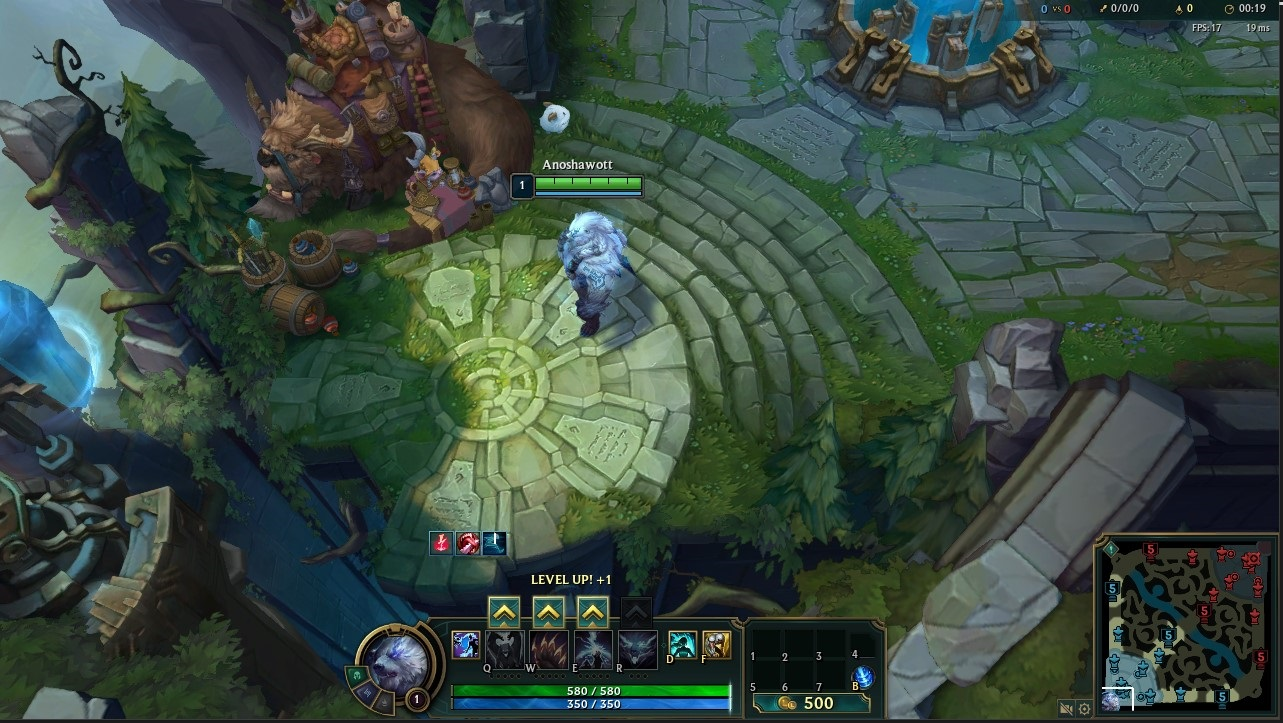
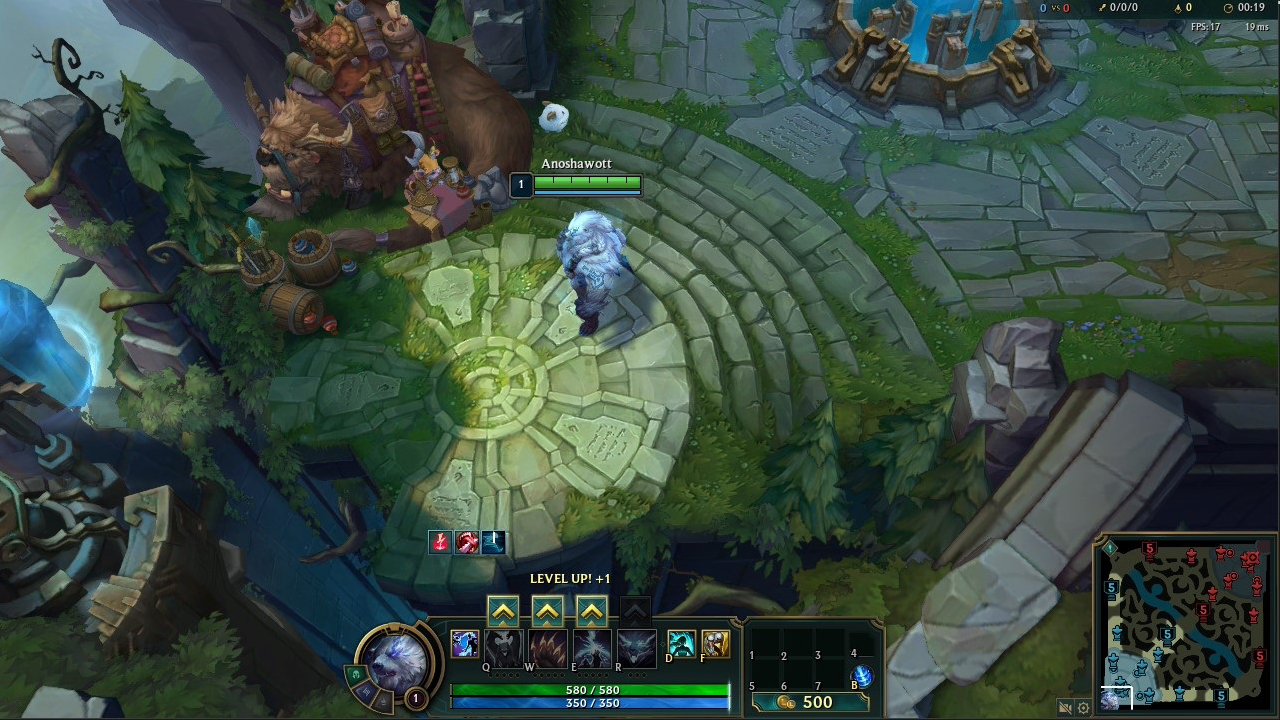
Digit Recognition 3.0

diff --git a/digit_detection_test.py b/digit_detection_test.py
@@ -1,7 +1,6 @@
 import numpy as np
 import cv2
-import mss
-import mss.tools
+from window_cap import WindowCapture
 import time
 
 ##### SUCCESS!!!!!!!
@@ -13,34 +12,19 @@ class DigitDetect:
 
 
     # screenshot() returns an image of some given area
-    def screenshot(self, x, y, width, height
-                , reduction_factor = 1
-                , gray = True
-                ):
-        with mss.mss() as sct:
-            # The screen part to capture
-            region = {'left': x, 'top': y, 'width': width, 'height': height}
-            
-            # Grab the data
-            img = sct.grab(region)
-            
-            if gray:
-                result = cv2.cvtColor(np.array(img), cv2.COLOR_BGRA2GRAY)
-            else:
-                result = cv2.cvtColor(np.array(img), cv2.COLOR_BGRA2BGR)
-
-            img = result[::reduction_factor, ::reduction_factor]
-            return img  
+    def screenshot(self):
+        wincap = WindowCapture('League of Legends (TM) Client')
+        img = wincap.get_screenshot()
+        return img  
 
     # returns digit and position
-    def detect(self, img, copy, region):
+    def detect(self, img, copy, region, x, y, width, height):
         tmp_numbers = {}
-        
-        # Read the input image 
-        im = img
+        # Read and crop the input image 
+        crop_img = img[y:y+height, x:x+width]
 
         # Convert to grayscale and apply Gaussian filtering; was COLOR_BGR2GRAY
-        im_gray = cv2.cvtColor(im, cv2.COLOR_BGR2GRAY)
+        im_gray = cv2.cvtColor(crop_img, cv2.COLOR_BGR2GRAY)
         template = cv2.imread('images/numbers/'+ region +'/' + str(copy) + '.jpg', 0)
         w, h = template.shape[::-1]
         
@@ -64,96 +48,139 @@ class DigitDetect:
                 count += 1
         return tmp_numbers
 
-    def get_data(self, x_coor, y_coor, w, h, where, last = ''):
-        start_1 = time.time()
-        img = self.screenshot(x = x_coor, y = y_coor, width = w, height = h, gray = False)
-        print(time.time()-start_1)
-        numbers = {}
-        for number in range(10):
-            returned_numbers = self.detect(img = img, copy = number, region = where)
-            z = numbers.copy()
-            z.update(returned_numbers)
-            numbers = z
-        num = {k: v for k, v in sorted(numbers.items(), key=lambda item: item[1])}
-        num_str = ''
-        for key in num:
-            num_str = num_str + key
-        remove = ['_', '!', '@', "#"]
-        for i in remove:
-            num_str = num_str.replace(i, '')
-        if where == 'kda':
-            kda = []
-            for i in num_str:
-                if i == '':
-                    return last
-                else:
-                    kda.append(i)
-            return kda
-        if num_str == '':
-            return last
-        else:
-            return num_str
+    def get_data(self, last = ''):
+        img = self.screenshot()
+        input_data = {'coins': [797,691,51,17], 'cs':[1178,0,25,16], 
+                'kda':[1103,0,43,13]}
+        output_data = {}
+        for area in input_data:
+            x_coor = input_data[area][0]
+            y_coor = input_data[area][1]
+            w = input_data[area][2]
+            h = input_data[area][3]
+            numbers = {}
+            for number in range(10):
+                returned_numbers = self.detect(img = img, copy = number, region = area,
+                                            x = x_coor, y = y_coor, width = w, height = h)
+                z = numbers.copy()
+                z.update(returned_numbers)
+                numbers = z
+            num = {k: v for k, v in sorted(numbers.items(), key=lambda item: item[1])}
+            num_str = ''
+            for key in num:
+                num_str = num_str + key
+            remove = ['_', '!', '@', "#"]
+            for i in remove:
+                num_str = num_str.replace(i, '')
+            if area == 'kda' and num_str != '':
+                kda = []
+                for i in num_str:
+                    if i == '':
+                        return last
+                    else:
+                        kda.append(i)
+                output_data[area]=kda
+                continue
+            if num_str == '':
+                output_data[area]=last
+            else:
+                output_data[area]=num_str
+        
+        return output_data
 
 
-# Following attempts to read and interpret on-screen information
+# Following attempts to read and interpret on-screen information 
+#### (Digit Recognition 3.0)
 
-for i in list(range(6))[::-1]:
+for i in list(range(3))[::-1]:
     print(i+1)
     time.sleep(1)
-
-# start = time.time()
-# count = 0
-# while True:
-#     if count == 0:
-#         print('Time elapsed:', time.time()-start)
-#         print('Coins: ', DigitDetect().get_data(1117,868,51,17, where = 'coins'))
-#         print('CP: ', DigitDetect().get_data(1504,173,25,16, where = 'cp'))
-#         print('KDA: ', DigitDetect().get_data(1427,172,43,13, where = 'kda'))
-#         print('-------------')
-#         last_coins = DigitDetect().get_data(1117,868,51,17, where = 'coins')
-#         last_cp = DigitDetect().get_data(1504,173,25,16, where = 'cp')
-#         last_kda = DigitDetect().get_data(1427,172,43,13, where = 'kda')
-
-#         count += 1
-#     else:
-#         print('Time elapsed:', time.time()-start)
-        
-#         print('Coins: ', DigitDetect().get_data(1117,868,51,17, where = 'coins', last = last_coins))
-#         print('CP: ', DigitDetect().get_data(1504,173,25,16, where = 'cp', last = last_cp))
-#         print('KDA: ', DigitDetect().get_data(1427,172,43,13, where = 'kda', last = last_kda))
-#         print('-------------')
-#         last_coins = DigitDetect().get_data(1117,868,51,17, where = 'coins')
-#         last_cp = DigitDetect().get_data(1504,173,25,16, where = 'cp')
-#         last_kda = DigitDetect().get_data(1427,172,43,13, where = 'kda')
-
-
-#     time.sleep(5)
 
 start = time.time()
 count = 0
 while True:
     if count == 0:
         print('Time elapsed:', time.time()-start)
-        coins = DigitDetect().get_data(1117,868,51,17, where = 'coins')
-        cp = DigitDetect().get_data(1504,173,25,16, where = 'cp')
-        kda = DigitDetect().get_data(1427,172,43,13, where = 'kda')
+        print(DigitDetect().get_data())
         print('-------------')
-        last_coins = coins
-        last_cp = cp
-        last_kda = kda
+        last_data = DigitDetect().get_data()
 
         count += 1
     else:
         print('Time elapsed:', time.time()-start)
-        coins = DigitDetect().get_data(1117,868,51,17, where = 'coins', last = last_coins)
-        cp = DigitDetect().get_data(1504,173,25,16, where = 'cp', last = last_cp)
-        kda = DigitDetect().get_data(1427,172,43,13, where = 'kda', last = last_kda)
+        start_1 = time.time()
+        print(DigitDetect().get_data(last = last_data))
+        print(time.time()-start_1)
         print('-------------')
-        last_coins = coins
-        last_cp = cp
-        last_kda = kda
-        
+        last_data = DigitDetect().get_data()
+
+
     time.sleep(5)
+
+
+
+# Digit recognition 2.5 --> with new windowed coordinates but with inefficient data collection
+
+# for i in list(range(3))[::-1]:
+#     print(i+1)
+#     time.sleep(1)
+
+# start = time.time()
+# count = 0
+# while True:
+#     if count == 0:
+#         print('Time elapsed:', time.time()-start)
+#         print('Coins: ', DigitDetect().get_data(797,691,51,17, where = 'coins'))
+#         print('CP: ', DigitDetect().get_data(1178,0,25,16, where = 'cp'))
+#         print('KDA: ', DigitDetect().get_data(1103,0,43,13, where = 'kda'))
+#         print('-------------')
+#         last_coins = DigitDetect().get_data(797,691,51,17, where = 'coins')
+#         last_cp = DigitDetect().get_data(1178,0,25,16, where = 'cp')
+#         last_kda = DigitDetect().get_data(1103,0,43,13, where = 'kda')
+
+#         count += 1
+#     else:
+#         print('Time elapsed:', time.time()-start)
+#         start_1 = time.time()
+#         print('Coins: ', DigitDetect().get_data(797,691,51,17, where = 'coins', last = last_coins))
+#         print(time.time()-start_1)
+#         print('CP: ', DigitDetect().get_data(1178,0,25,16, where = 'cp', last = last_cp))
+#         print('KDA: ', DigitDetect().get_data(1103,0,43,13, where = 'kda', last = last_kda))
+#         print('-------------')
+#         last_coins = DigitDetect().get_data(797,691,51,17, where = 'coins')
+#         last_cp = DigitDetect().get_data(1178,0,25,16, where = 'cp')
+#         last_kda = DigitDetect().get_data(1103,0,43,13, where = 'kda')
+
+
+#     time.sleep(5)
+
+#below uses coordinates when the whole screen was being read...
+
+# start = time.time()
+# count = 0
+# while True:
+#     if count == 0:
+#         print('Time elapsed:', time.time()-start)
+#         coins = DigitDetect().get_data(1117,868,51,17, where = 'coins')
+#         cp = DigitDetect().get_data(1504,173,25,16, where = 'cp')
+#         kda = DigitDetect().get_data(1427,172,43,13, where = 'kda')
+#         print('-------------')
+#         last_coins = coins
+#         last_cp = cp
+#         last_kda = kda
+
+#         count += 1
+#     else:
+#         print('Time elapsed:', time.time()-start)
+#         coins = DigitDetect().get_data(1117,868,51,17, where = 'coins', last = last_coins)
+#         cp = DigitDetect().get_data(1504,173,25,16, where = 'cp', last = last_cp)
+#         kda = DigitDetect().get_data(1427,172,43,13, where = 'kda', last = last_kda)
+#         print('-------------')
+#         last_coins = coins
+#         last_cp = cp
+#         last_kda = kda
+        
+#     time.sleep(5)
 
 
 # MAKE SCREENSHOT FASTER USE DIRECT WINDOWS METHOD!!!! get each screengrab down to 0.01 then we can total 

diff --git a/main.py b/main.py
@@ -2,14 +2,8 @@
 
 import numpy as np
 from DirectKeys import PressKey, ReleaseKey, Y, ESC
-import pyautogui
-from PIL import Image
 from pynput.mouse import Button, Controller
-import mss
-import mss.tools
 import cv2
-import pytesseract
-import re
 import math
 import time
 import random

diff --git a/window_cap.py b/window_cap.py
@@ -17,6 +17,7 @@ class WindowCapture:
 
         self.hwnd = win32gui.FindWindow(None, window_name)
         if not self.hwnd:
+            ## CALL GAME END FUNCTION HERE TO INITATE LOOP
             raise Exception('Window not found: {}'.format(window_name))
 
 
